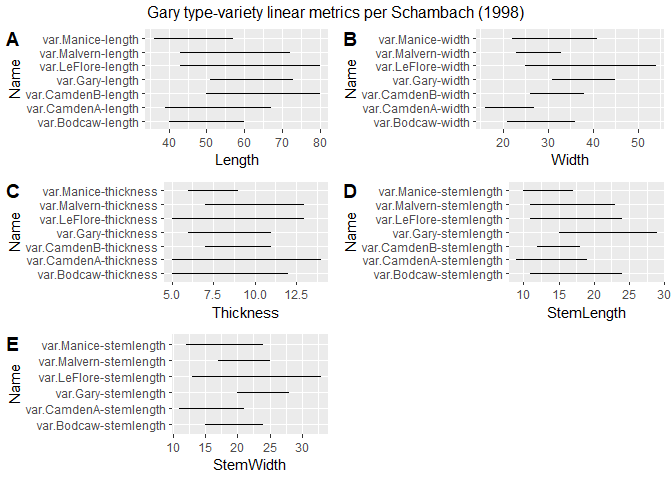
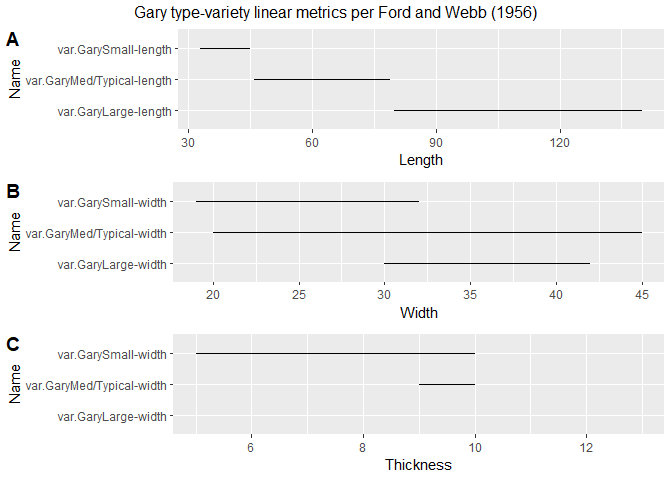
<edit linear-metrics>

diff --git a/analysis/linear-metrics.md b/analysis/linear-metrics.md
@@ -85,21 +85,45 @@ dai<-ppgary$dai # dart-arrow index value
 
 ``` r
 # Ford, Phillips, and Haag (1955)
+fphl<-data.frame(Name=c('var.GaryStemmed-length','var.TypicalGaryStemmed-length','var.BroadGaryStemmed-length','var.ThinGaryStemmed-length','var.SmallGaryStemmed-length'),
+           Length=c(45,45,45,55,35), # in mm
+           end=c(70,79,70,75,50) # in mm
+)
+fphlength<-ggplot(fphl, aes(x=Length, xend=end, y=Name, yend=Name)) +
+  geom_segment()
+fphw<-data.frame(Name=c('var.GaryStemmed-width','var.TypicalGaryStemmed-width','var.BroadGaryStemmed-width','var.ThinGaryStemmed-width','var.SmallGaryStemmed-width'),
+           Width=c(22,22,32,30,20), # in mm
+           end=c(31,31,48,36,30) # in mm
+)
+fphwidth<-ggplot(fphw, aes(x=Width, xend=end, y=Name, yend=Name)) +
+  geom_segment()
+# render figure
+fwebbfig<-ggarrange(fphlength,fphwidth,
+                  labels = c("A","B"),
+                  ncol = 1, nrow = 2)
+annotate_figure(fwebbfig,
+                top=text_grob("Gary type-variety linear metrics per Ford, Phillips, and Haag (1955)")
+)
+```
+
+![](linear-metrics_files/figure-gfm/gantt-1.png)<!-- -->
+
+``` r
 # Ford and Webb (1956)
-fwebbl<-data.frame(Name=c('var.GaryLarge-length','var.GaryTypical-length','var.GarySmall-length'),
+fwebbl<-data.frame(Name=c('var.GaryLarge-length','var.GaryMed/Typical-length','var.GarySmall-length'),
            Length=c(80,46,33), # in mm
            end=c(140,79,45) # in mm
 )
 fwebblength<-ggplot(fwebbl, aes(x=Length, xend=end, y=Name, yend=Name)) +
   geom_segment()
-fwebbw<-data.frame(Name=c('var.GaryLarge-width','var.GaryTypical-width','var.GarySmall-width'),
+fwebbw<-data.frame(Name=c('var.GaryLarge-width','var.GaryMed/Typical-width','var.GarySmall-width'),
            Width=c(30,20,19), # in mm
            end=c(42,45,32) # in mm
 )
 fwebbwidth<-ggplot(fwebbw, aes(x=Width, xend=end, y=Name, yend=Name)) +
   geom_segment()
 # thickness values were not precisely reported for GaryLarge and GaryTypical, and are included here for reference only
-fwebbth<-data.frame(Name=c('var.GaryLarge-width','var.GaryTypical-width','var.GarySmall-width'),
+fwebbth<-data.frame(Name=c('var.GaryLarge-width','var.GaryMed/Typical-width','var.GarySmall-width'),
            Thickness=c(13,9,5), # in mm
            end=c(13,10,10) # in mm
 )
@@ -114,7 +138,7 @@ annotate_figure(fwebbfig,
 )
 ```
 
-![](linear-metrics_files/figure-gfm/gantt-1.png)<!-- -->
+![](linear-metrics_files/figure-gfm/gantt-2.png)<!-- -->
 
 ``` r
 # Schambach (1998)
@@ -157,7 +181,7 @@ annotate_figure(schambachfig,
 )
 ```
 
-![](linear-metrics_files/figure-gfm/gantt-2.png)<!-- -->
+![](linear-metrics_files/figure-gfm/gantt-3.png)<!-- -->
 
 ### Functions used to assign Gary type-varieties
 
